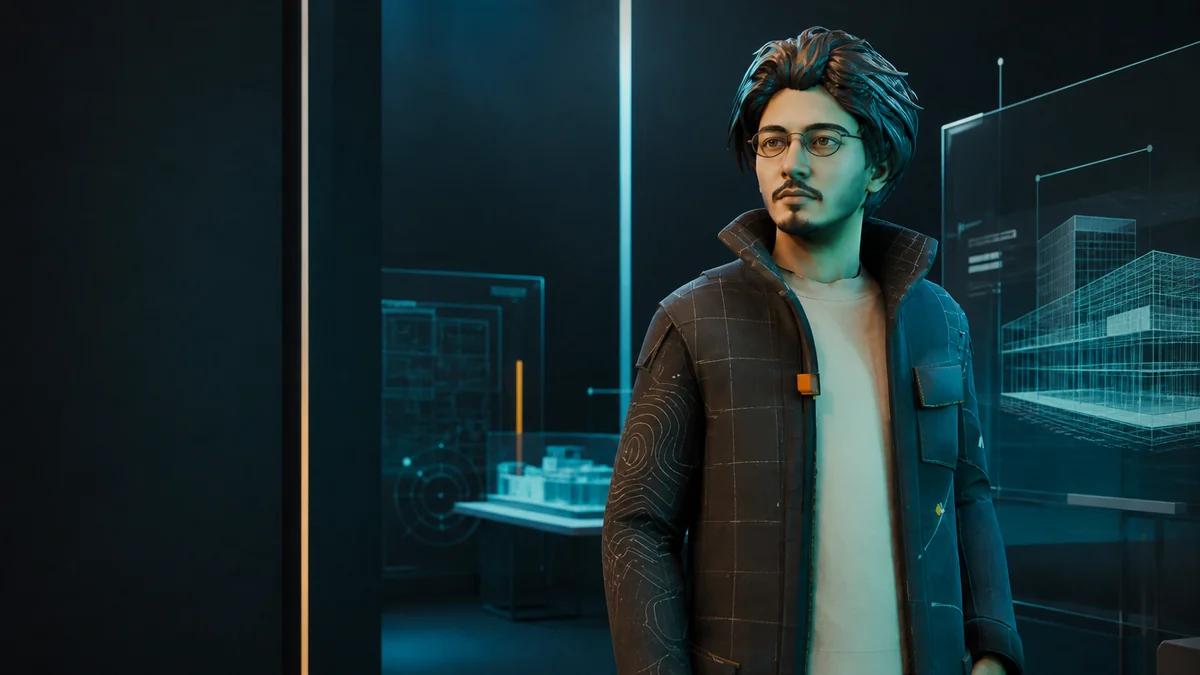
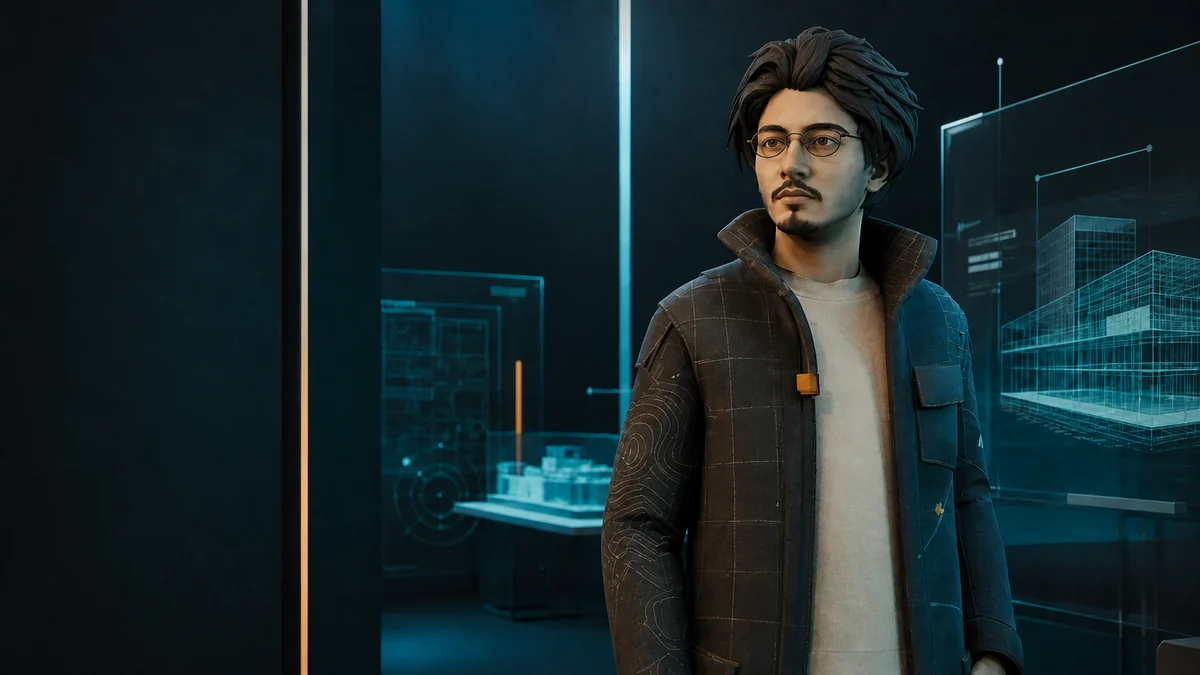
Refine digital twin material finish

diff --git a/mascot.js b/mascot.js
@@ -117,8 +117,10 @@ function applyPapercutFinish(mesh) {
 
     for (const material of materials) {
         if (!material?.isMeshStandardMaterial) continue;
-        material.roughness = Math.max(material.roughness ?? 0, isSkin ? 0.76 : 0.84);
-        material.metalness = Math.min(material.metalness ?? 0, 0.08);
+        const matteRoughness = isHair ? 0.98 : isSkin ? 0.90 : isBody ? 0.92 : 0.88;
+        material.roughness = Math.max(material.roughness ?? 0, matteRoughness);
+        material.metalness = Math.min(material.metalness ?? 0, 0.02);
+        material.envMapIntensity = Math.min(material.envMapIntensity ?? 1, isHair ? 0.18 : isSkin ? 0.30 : 0.42);
         material.flatShading = true;
         material.onBeforeCompile = (shader) => {
             shader.vertexShader = shader.vertexShader
